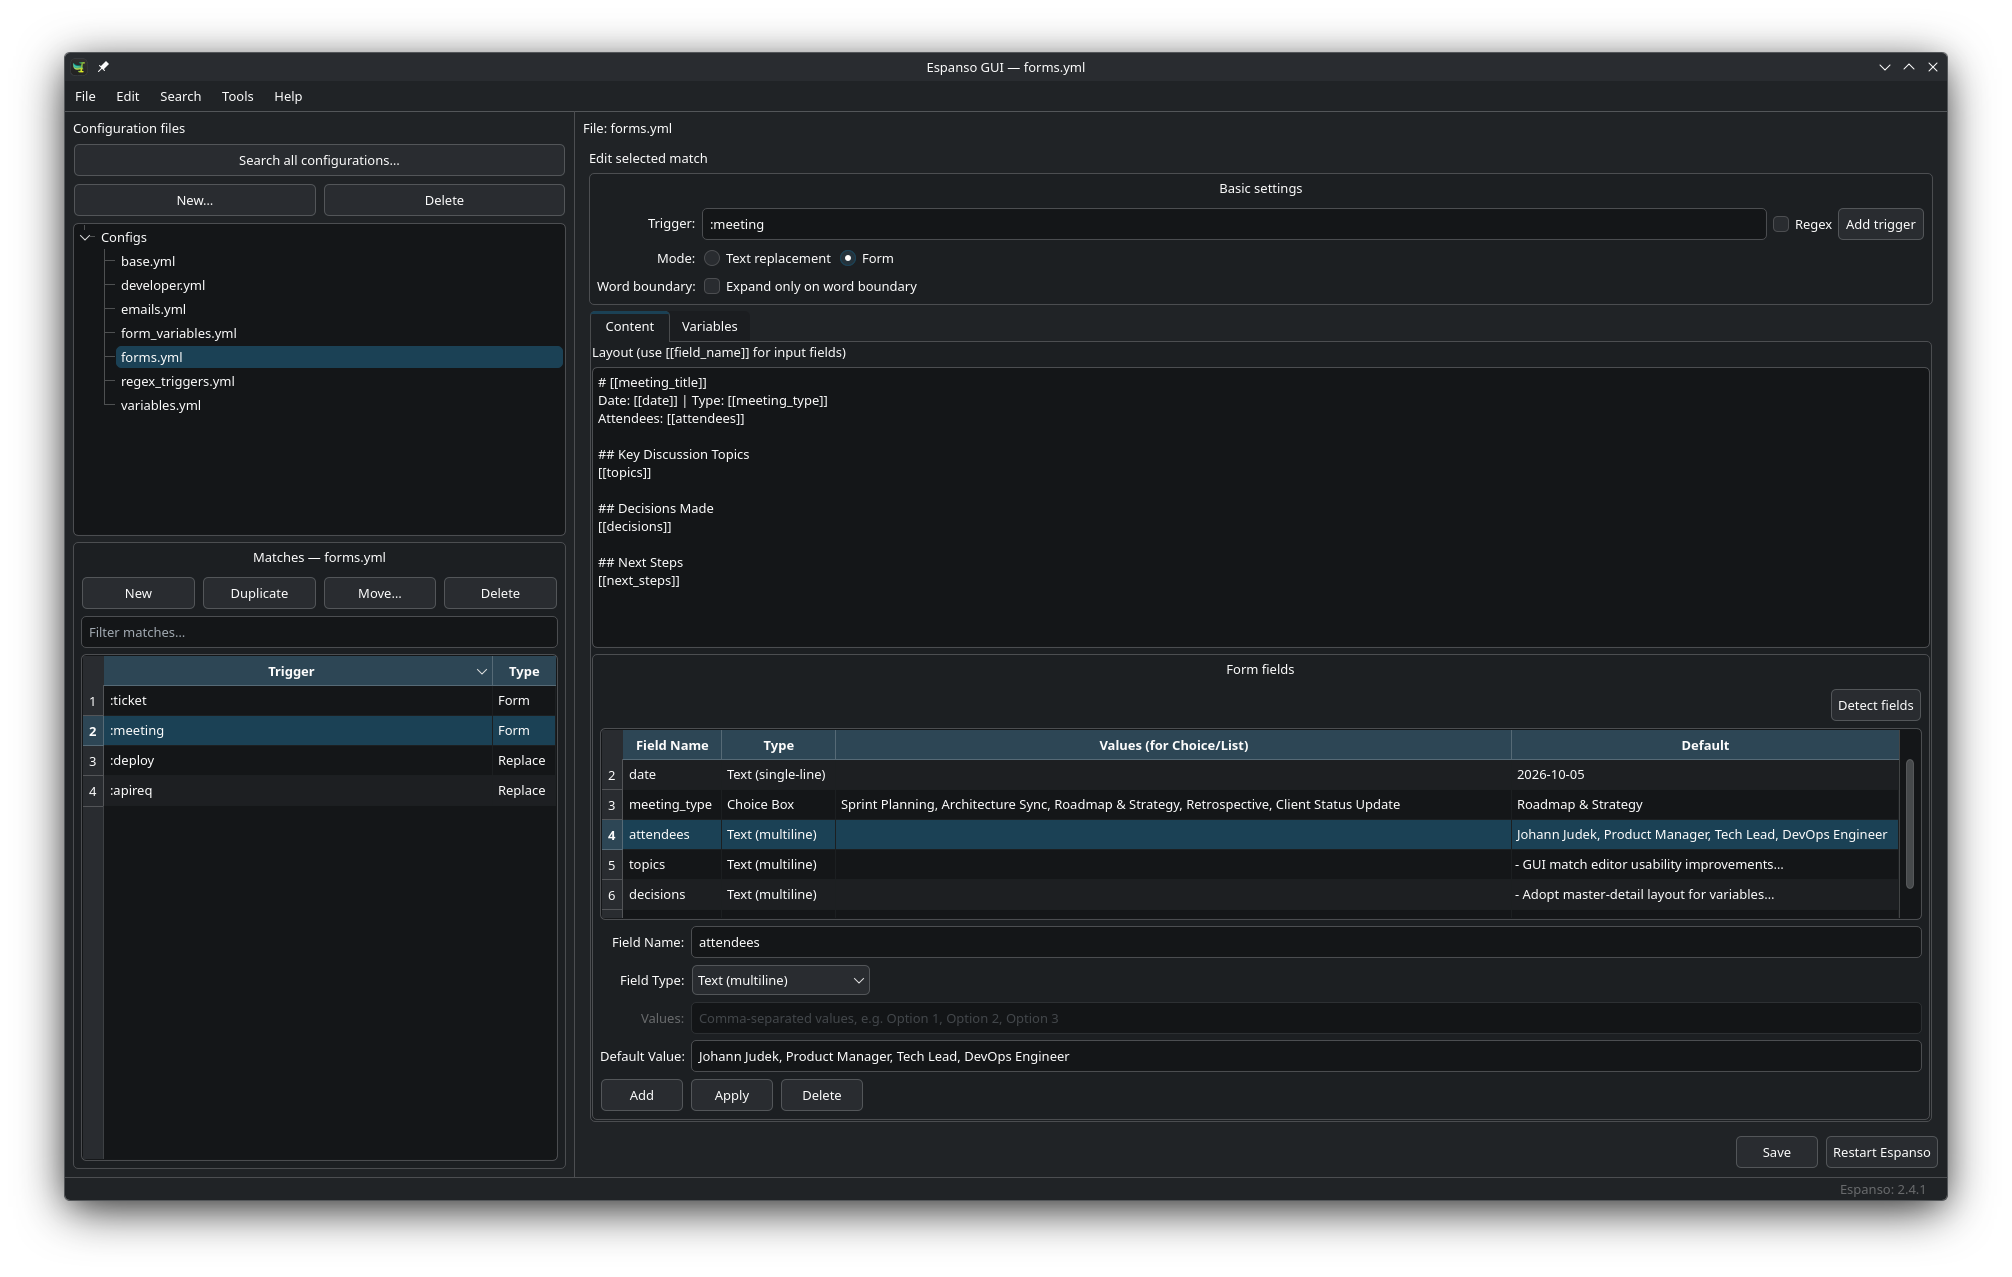
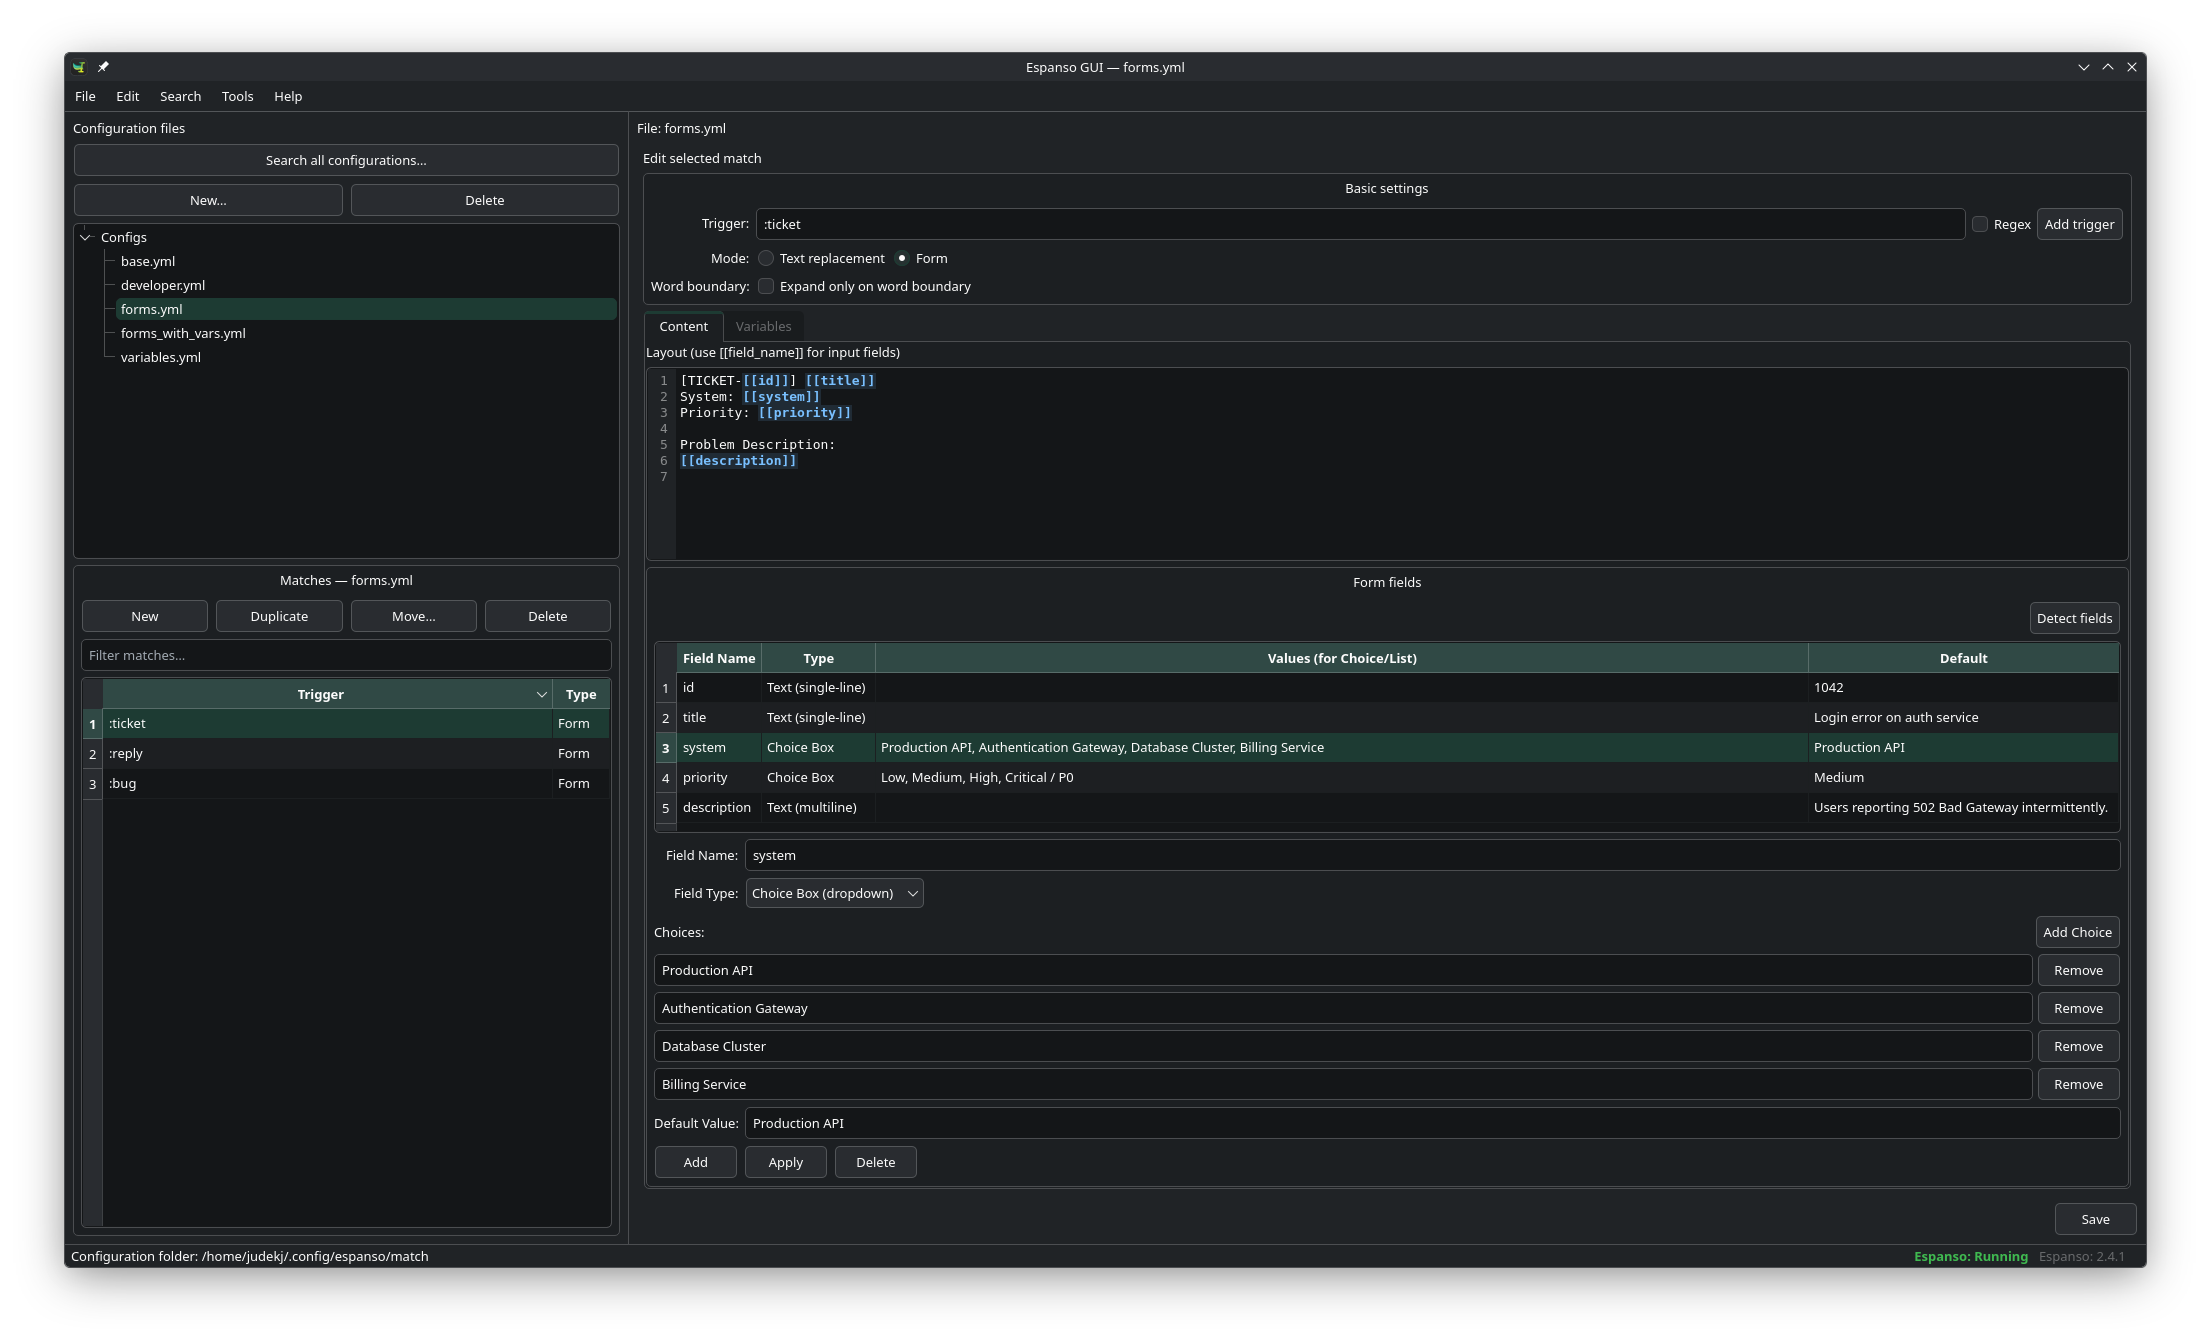
feat: update screenshots and carousel navigation in index.html

Changed region(s): [[0.0308, 0.0305, 0.9861, 0.9773], [0.5855, 0.1222, 0.6471, 0.1527]]

diff --git a/index.html b/index.html
@@ -930,12 +930,15 @@
 
         <!-- Carousel Direct Selector Navigation -->
         <div class="carousel-selector-nav" id="carouselPills">
-          <button class="carousel-pill-btn active" data-slide="0">Match &amp; Form Editor</button>
-          <button class="carousel-pill-btn" data-slide="1">Variables Inspector</button>
-          <button class="carousel-pill-btn" data-slide="2">Global Search (Ctrl+F)</button>
+          <button class="carousel-pill-btn active" data-slide="0">Main Window</button>
+          <button class="carousel-pill-btn" data-slide="1">Global Search (Ctrl+F)</button>
+          <button class="carousel-pill-btn" data-slide="2">Expert YAML (Matches)</button>
           <button class="carousel-pill-btn" data-slide="3">Config Profiles</button>
-          <button class="carousel-pill-btn" data-slide="4">Expert YAML Mode</button>
-          <button class="carousel-pill-btn" data-slide="5">Usage Statistics</button>
+          <button class="carousel-pill-btn" data-slide="4">Statistics</button>
+          <button class="carousel-pill-btn" data-slide="5">Playground</button>
+          <button class="carousel-pill-btn" data-slide="6">Regex Support</button>
+          <button class="carousel-pill-btn" data-slide="7">Expert YAML (Config)</button>
+          <button class="carousel-pill-btn" data-slide="8">GUI Settings</button>
         </div>
 
         <!-- Swiper Carousel Container -->
@@ -968,43 +971,12 @@
                 <div class="slide-caption-bar">
                   <h4 class="slide-caption-title">Match &amp; Form Editor</h4>
                   <p class="slide-caption-desc">
-                    Configuration file tree, trigger search filter, multi-line snippet editor, and automatic form field inputs.
+                    Configuration file tree, trigger search filter, snippet editor, and interactive form fields.
                   </p>
                 </div>
               </div>
 
-              <!-- Slide 2: Variables -->
-              <div class="swiper-slide">
-                <div class="slide-img-box">
-                  <div
-                    class="screenshot-zoom-wrap"
-                    data-bs-toggle="modal"
-                    data-bs-target="#screenshotModal"
-                    data-bs-img="images/screenshots/variables.png"
-                    data-bs-title="Variables &amp; Form Fields Inspector"
-                    role="button"
-                    tabindex="0"
-                    title="Click to enlarge"
-                  >
-                    <img
-                      src="images/screenshots/variables.png"
-                      alt="Variables Inspector"
-                      class="img-fluid"
-                    />
-                    <div class="zoom-indicator-badge">
-                      <i class="bi bi-arrows-fullscreen me-1"></i> Full Size
-                    </div>
-                  </div>
-                </div>
-                <div class="slide-caption-bar">
-                  <h4 class="slide-caption-title">Master-Detail Variable Manager</h4>
-                  <p class="slide-caption-desc">
-                    Configure shell scripts, date formatters, choice lists, and clipboard variables with side-by-side properties.
-                  </p>
-                </div>
-              </div>
-
-              <!-- Slide 3: Search -->
+              <!-- Slide 2: Search -->
               <div class="swiper-slide">
                 <div class="slide-img-box">
                   <div
@@ -1035,22 +1007,53 @@
                 </div>
               </div>
 
-              <!-- Slide 4: Config Profiles -->
+              <!-- Slide 3: Expert YAML Match File -->
               <div class="swiper-slide">
                 <div class="slide-img-box">
                   <div
                     class="screenshot-zoom-wrap"
                     data-bs-toggle="modal"
                     data-bs-target="#screenshotModal"
-                    data-bs-img="images/screenshots/espanso_config.png"
+                    data-bs-img="images/screenshots/expert_yaml_mode_matchfile.png"
+                    data-bs-title="Expert YAML Mode — Match Files"
+                    role="button"
+                    tabindex="0"
+                    title="Click to enlarge"
+                  >
+                    <img
+                      src="images/screenshots/expert_yaml_mode_matchfile.png"
+                      alt="Expert YAML Mode for Match Files"
+                      class="img-fluid"
+                    />
+                    <div class="zoom-indicator-badge">
+                      <i class="bi bi-arrows-fullscreen me-1"></i> Full Size
+                    </div>
+                  </div>
+                </div>
+                <div class="slide-caption-bar">
+                  <h4 class="slide-caption-title">Expert YAML Mode — Match Files</h4>
+                  <p class="slide-caption-desc">
+                    Direct access to the complete document syntax with real-time syntax validation before saving.
+                  </p>
+                </div>
+              </div>
+
+              <!-- Slide 4: Espanso Configuration Profiles -->
+              <div class="swiper-slide">
+                <div class="slide-img-box">
+                  <div
+                    class="screenshot-zoom-wrap"
+                    data-bs-toggle="modal"
+                    data-bs-target="#screenshotModal"
+                    data-bs-img="images/screenshots/espanso_configuration.png"
                     data-bs-title="Espanso Configuration Profiles"
                     role="button"
                     tabindex="0"
                     title="Click to enlarge"
                   >
                     <img
-                      src="images/screenshots/espanso_config.png"
-                      alt="Configuration Profiles"
+                      src="images/screenshots/espanso_configuration.png"
+                      alt="Espanso Configuration Profiles"
                       class="img-fluid"
                     />
                     <div class="zoom-indicator-badge">
@@ -1059,45 +1062,14 @@
                   </div>
                 </div>
                 <div class="slide-caption-bar">
-                  <h4 class="slide-caption-title">Configuration Profiles</h4>
+                  <h4 class="slide-caption-title">Espanso Configuration Profiles</h4>
                   <p class="slide-caption-desc">
-                    Settings editor for <kbd>default.yml</kbd>, keyboard layout overrides, and application exclusions.
+                    Visual settings editor for <kbd>default.yml</kbd>, keyboard layout rules, backend options, and application filters.
                   </p>
                 </div>
               </div>
 
-              <!-- Slide 5: Expert YAML -->
-              <div class="swiper-slide">
-                <div class="slide-img-box">
-                  <div
-                    class="screenshot-zoom-wrap"
-                    data-bs-toggle="modal"
-                    data-bs-target="#screenshotModal"
-                    data-bs-img="images/screenshots/expert_yaml.png"
-                    data-bs-title="Expert YAML Mode with Syntax Validation"
-                    role="button"
-                    tabindex="0"
-                    title="Click to enlarge"
-                  >
-                    <img
-                      src="images/screenshots/expert_yaml.png"
-                      alt="Expert YAML Editor"
-                      class="img-fluid"
-                    />
-                    <div class="zoom-indicator-badge">
-                      <i class="bi bi-arrows-fullscreen me-1"></i> Full Size
-                    </div>
-                  </div>
-                </div>
-                <div class="slide-caption-bar">
-                  <h4 class="slide-caption-title">Expert YAML Mode</h4>
-                  <p class="slide-caption-desc">
-                    Direct access to the complete document syntax with automatic pre-save validation to prevent syntax errors.
-                  </p>
-                </div>
-              </div>
-
-              <!-- Slide 6: Statistics -->
+              <!-- Slide 5: Statistics -->
               <div class="swiper-slide">
                 <div class="slide-img-box">
                   <div
@@ -1121,9 +1093,133 @@
                   </div>
                 </div>
                 <div class="slide-caption-bar">
-                  <h4 class="slide-caption-title">Usage Statistics</h4>
+                  <h4 class="slide-caption-title">Usage Statistics &amp; Daemon Status</h4>
                   <p class="slide-caption-desc">
-                    Monitor expansion counters, trigger frequency, and active Espanso daemon status.
+                    Monitor daily and all-time expansion counters, most used triggers, and active Espanso daemon status.
+                  </p>
+                </div>
+              </div>
+
+              <!-- Slide 6: Playground -->
+              <div class="swiper-slide">
+                <div class="slide-img-box">
+                  <div
+                    class="screenshot-zoom-wrap"
+                    data-bs-toggle="modal"
+                    data-bs-target="#screenshotModal"
+                    data-bs-img="images/screenshots/playground.png"
+                    data-bs-title="Interactive Expansion Playground"
+                    role="button"
+                    tabindex="0"
+                    title="Click to enlarge"
+                  >
+                    <img
+                      src="images/screenshots/playground.png"
+                      alt="Interactive Expansion Playground"
+                      class="img-fluid"
+                    />
+                    <div class="zoom-indicator-badge">
+                      <i class="bi bi-arrows-fullscreen me-1"></i> Full Size
+                    </div>
+                  </div>
+                </div>
+                <div class="slide-caption-bar">
+                  <h4 class="slide-caption-title">Interactive Expansion Playground</h4>
+                  <p class="slide-caption-desc">
+                    Test your triggers, form expansions, and variables live inside the application without switching windows.
+                  </p>
+                </div>
+              </div>
+
+              <!-- Slide 7: Regex Support -->
+              <div class="swiper-slide">
+                <div class="slide-img-box">
+                  <div
+                    class="screenshot-zoom-wrap"
+                    data-bs-toggle="modal"
+                    data-bs-target="#screenshotModal"
+                    data-bs-img="images/screenshots/regex_support.png"
+                    data-bs-title="Regex &amp; Dynamic Trigger Support"
+                    role="button"
+                    tabindex="0"
+                    title="Click to enlarge"
+                  >
+                    <img
+                      src="images/screenshots/regex_support.png"
+                      alt="Regex & Dynamic Trigger Support"
+                      class="img-fluid"
+                    />
+                    <div class="zoom-indicator-badge">
+                      <i class="bi bi-arrows-fullscreen me-1"></i> Full Size
+                    </div>
+                  </div>
+                </div>
+                <div class="slide-caption-bar">
+                  <h4 class="slide-caption-title">Regex &amp; Dynamic Triggers</h4>
+                  <p class="slide-caption-desc">
+                    Define powerful regular expression triggers with named capture groups like <kbd>(?P&lt;name&gt;...)</kbd>.
+                  </p>
+                </div>
+              </div>
+
+              <!-- Slide 8: Expert YAML Config -->
+              <div class="swiper-slide">
+                <div class="slide-img-box">
+                  <div
+                    class="screenshot-zoom-wrap"
+                    data-bs-toggle="modal"
+                    data-bs-target="#screenshotModal"
+                    data-bs-img="images/screenshots/expert_yaml_mode_espansoconfig.png"
+                    data-bs-title="Expert YAML Mode — Daemon Configuration"
+                    role="button"
+                    tabindex="0"
+                    title="Click to enlarge"
+                  >
+                    <img
+                      src="images/screenshots/expert_yaml_mode_espansoconfig.png"
+                      alt="Expert YAML Mode for Daemon Config"
+                      class="img-fluid"
+                    />
+                    <div class="zoom-indicator-badge">
+                      <i class="bi bi-arrows-fullscreen me-1"></i> Full Size
+                    </div>
+                  </div>
+                </div>
+                <div class="slide-caption-bar">
+                  <h4 class="slide-caption-title">Expert YAML Mode — Daemon Config</h4>
+                  <p class="slide-caption-desc">
+                    Direct YAML editor for advanced daemon configuration profiles and complex backend overrides.
+                  </p>
+                </div>
+              </div>
+
+              <!-- Slide 9: GUI Preferences -->
+              <div class="swiper-slide">
+                <div class="slide-img-box">
+                  <div
+                    class="screenshot-zoom-wrap"
+                    data-bs-toggle="modal"
+                    data-bs-target="#screenshotModal"
+                    data-bs-img="images/screenshots/espanso_gui_configuration.png"
+                    data-bs-title="Espanso GUI Application Preferences"
+                    role="button"
+                    tabindex="0"
+                    title="Click to enlarge"
+                  >
+                    <img
+                      src="images/screenshots/espanso_gui_configuration.png"
+                      alt="Espanso GUI Application Preferences"
+                      class="img-fluid"
+                    />
+                    <div class="zoom-indicator-badge">
+                      <i class="bi bi-arrows-fullscreen me-1"></i> Full Size
+                    </div>
+                  </div>
+                </div>
+                <div class="slide-caption-bar">
+                  <h4 class="slide-caption-title">Espanso GUI Preferences</h4>
+                  <p class="slide-caption-desc">
+                    Configure application behavior, toggle editor line numbers, manage update checks, and select custom paths.
                   </p>
                 </div>
               </div>
